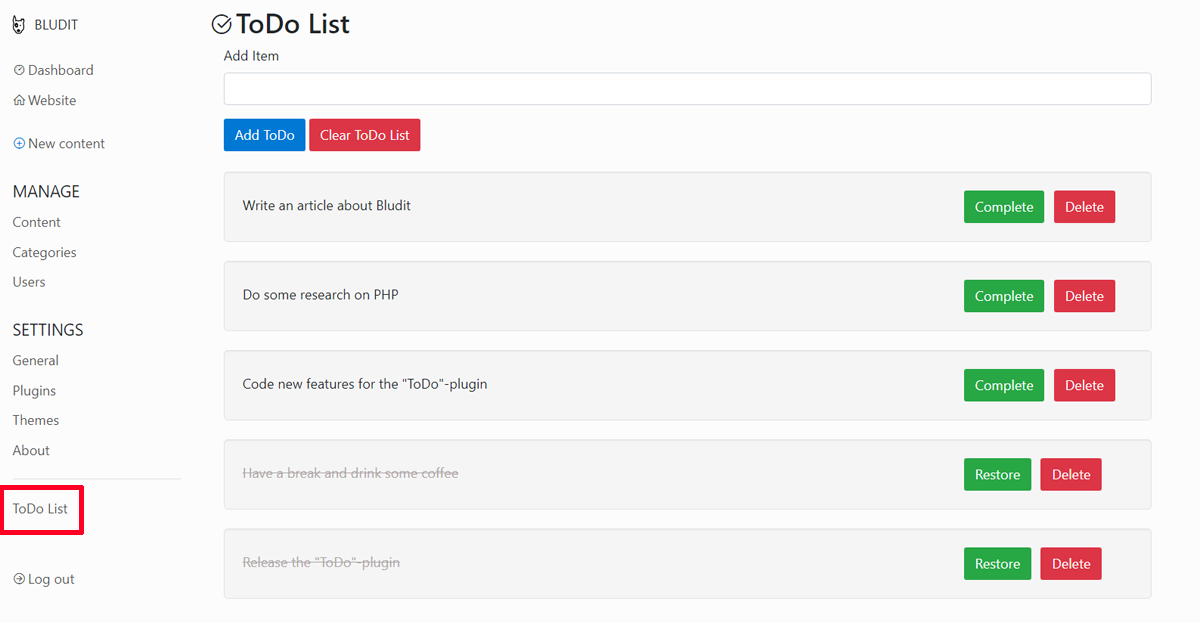
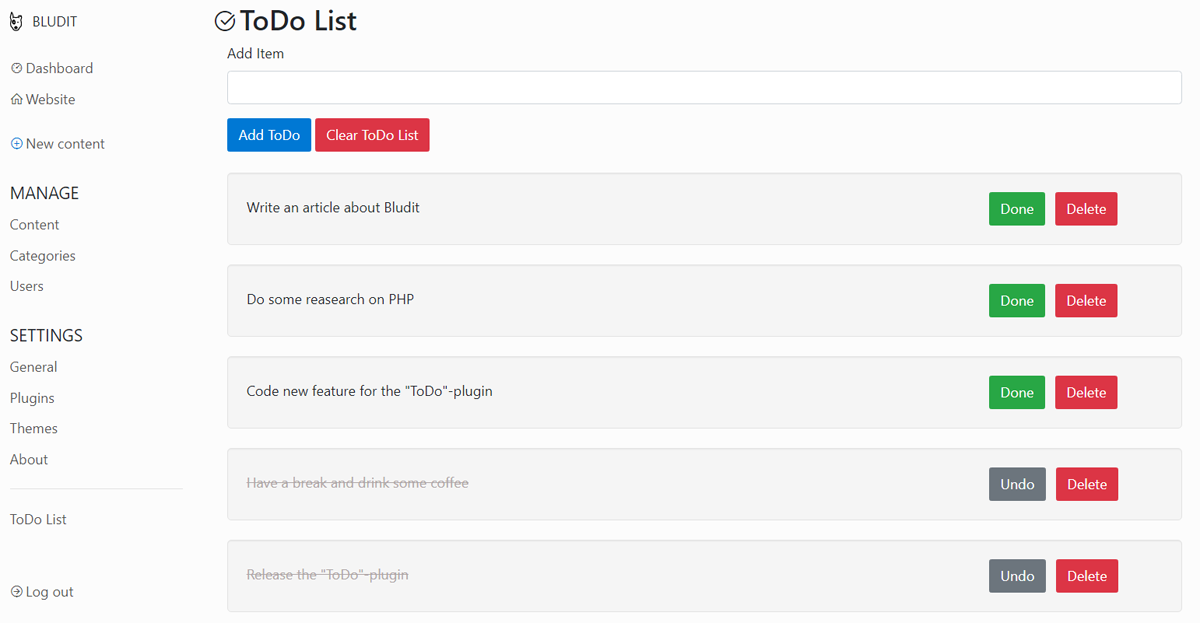
updated

diff --git a/js/todo.js b/js/todo.js
@@ -10,9 +10,9 @@ function listItemObj(content, status) {
 }
 var changeToComp = function(){
     var parent = this.parentElement;
-    console.log('ToDo changed to complete');
+    console.log('ToDo was done');
     parent.className = 'uncompleted well';
-    this.innerText = 'Restore';
+    this.innerText = 'Undo';
     this.removeEventListener('click',changeToComp);
     this.addEventListener('click',changeToInComp);
     changeListArray(parent.firstChild.innerText,'complete');
@@ -21,9 +21,9 @@ var changeToComp = function(){
 
 var changeToInComp = function(){
     var parent = this.parentElement;
-    console.log('ToDo changed to incomplete');
+    console.log('ToDo was restored ');
     parent.className = 'completed well';
-    this.innerText = 'Complete';
+    this.innerText = 'Done';
     this.removeEventListener('click',changeToInComp);
     this.addEventListener('click',changeToComp);
 
@@ -77,7 +77,7 @@ var createItemDom = function(text,status){
 
     itemLabel.innerText = text;
     itemCompBtn.className = 'btn btn-success';
-    itemCompBtn.innerText = (status == 'incomplete')?'Complete':'Restore';
+    itemCompBtn.innerText = (status == 'incomplete')?'Done':'Undo';
     if(status == 'incomplete'){
         itemCompBtn.addEventListener('click',changeToComp);
     }else{

diff --git a/css/style.css b/css/style.css
@@ -1,19 +1,15 @@
 #todoList {
 padding-left: 0px;
 }
-
-
 #todoList label{
     width: 80%;
 }
 #todoList li{
     list-style-type: none;
 }
-
 #todoList .btn{
     margin-left: 10px;
 }
-
 .completed{
 
 }
@@ -21,7 +17,11 @@ padding-left: 0px;
     color: #afa7a7;
     text-decoration: line-through;
 }
-
+.uncompleted button.btn.btn-success {
+	color: #fff;
+	background-color: #6c757d;
+    border-color: #6c757d;
+}
 .well {
 	min-height: 20px;
 	padding: 19px;
@@ -32,17 +32,14 @@ padding-left: 0px;
 	-webkit-box-shadow: inset 0 1px 1px rgba(0,0,0,0.05);
 	box-shadow: inset 0 1px 1px rgba(0,0,0,0.05);
 }
-
 .well blockquote {
 	border-color: #ddd;
 	border-color: rgba(0,0,0,0.15);
 }
-
 .well-lg {
 	padding: 24px;
 	border-radius: 6px;
 }
-
 .well-sm {
 	padding: 9px;
 	border-radius: 3px;

diff --git a/CHANGELOG.md b/CHANGELOG.md
@@ -3,6 +3,25 @@
 All notable changes to this project will be documented in this file.
 
 
+
+
+## [0.3] - 2021-08-25
+
+### Added
+
+- added french description
+
+### Changed
+
+- changed button-style
+- renamed buttons
+- updated screenshot
+- cleaned up code
+
+
+
+
+
 ## [0.2] - 2021-08-20
 
 ### Added
